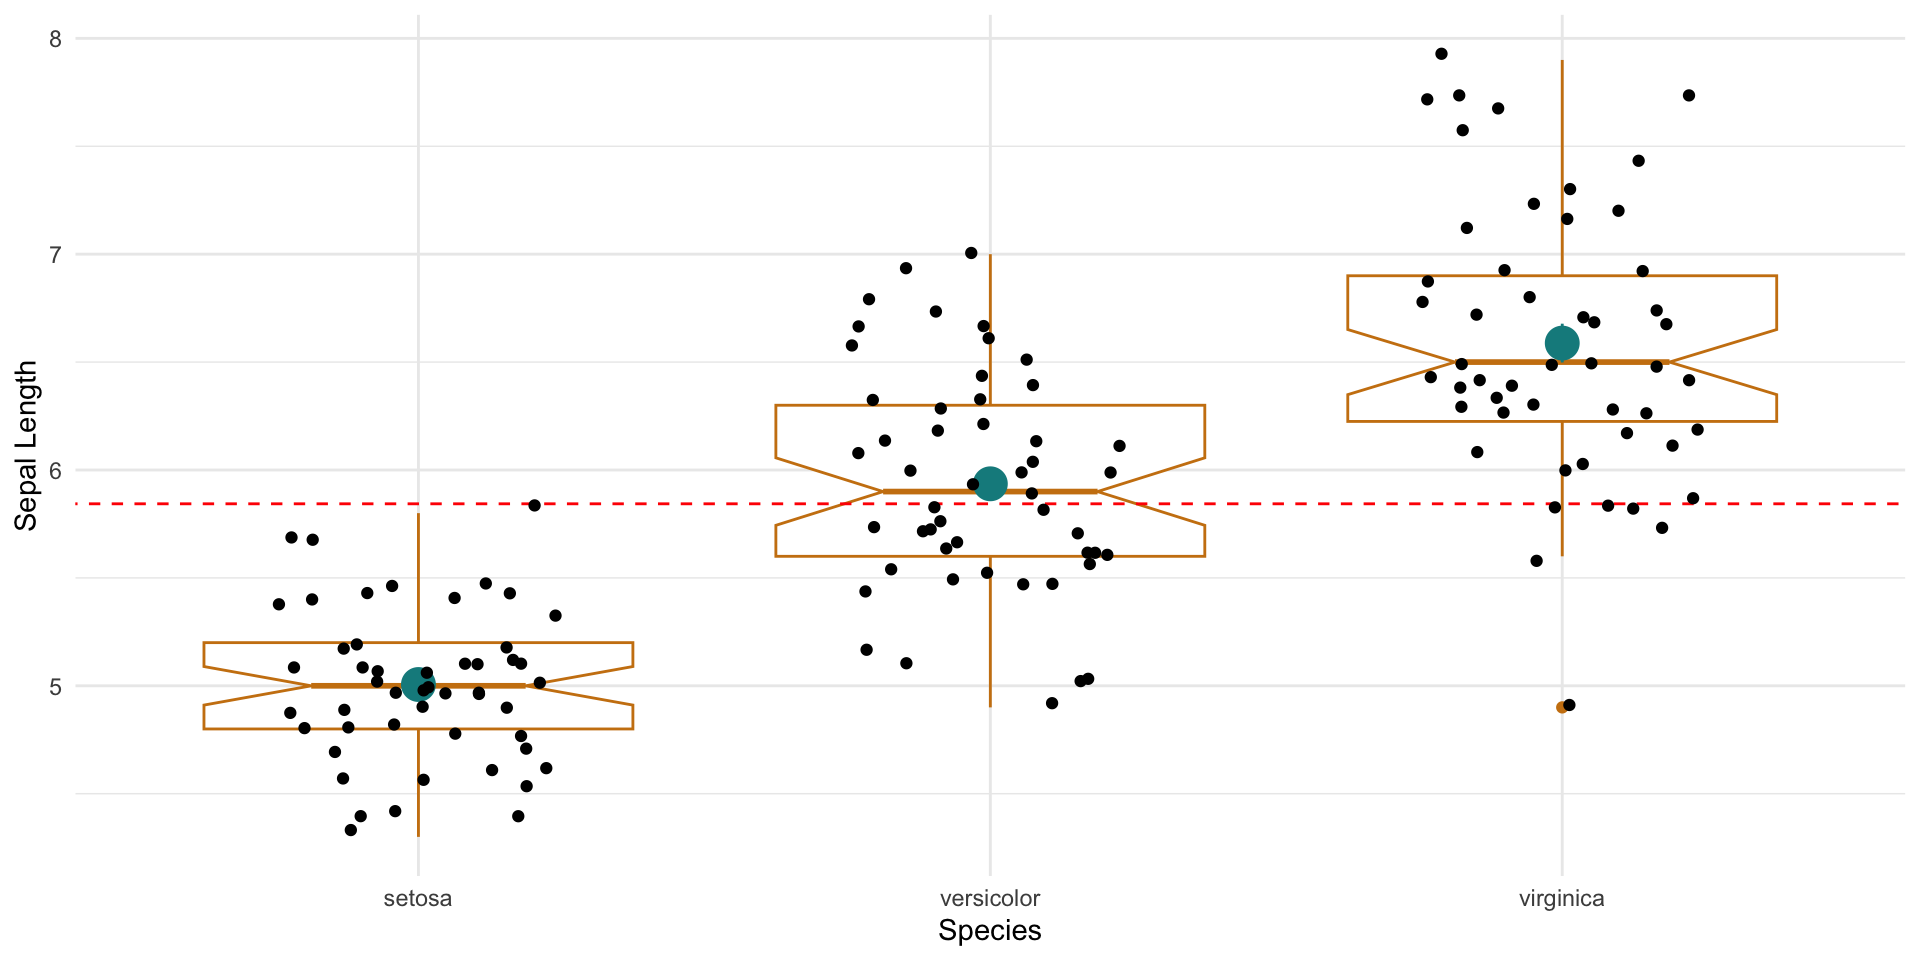
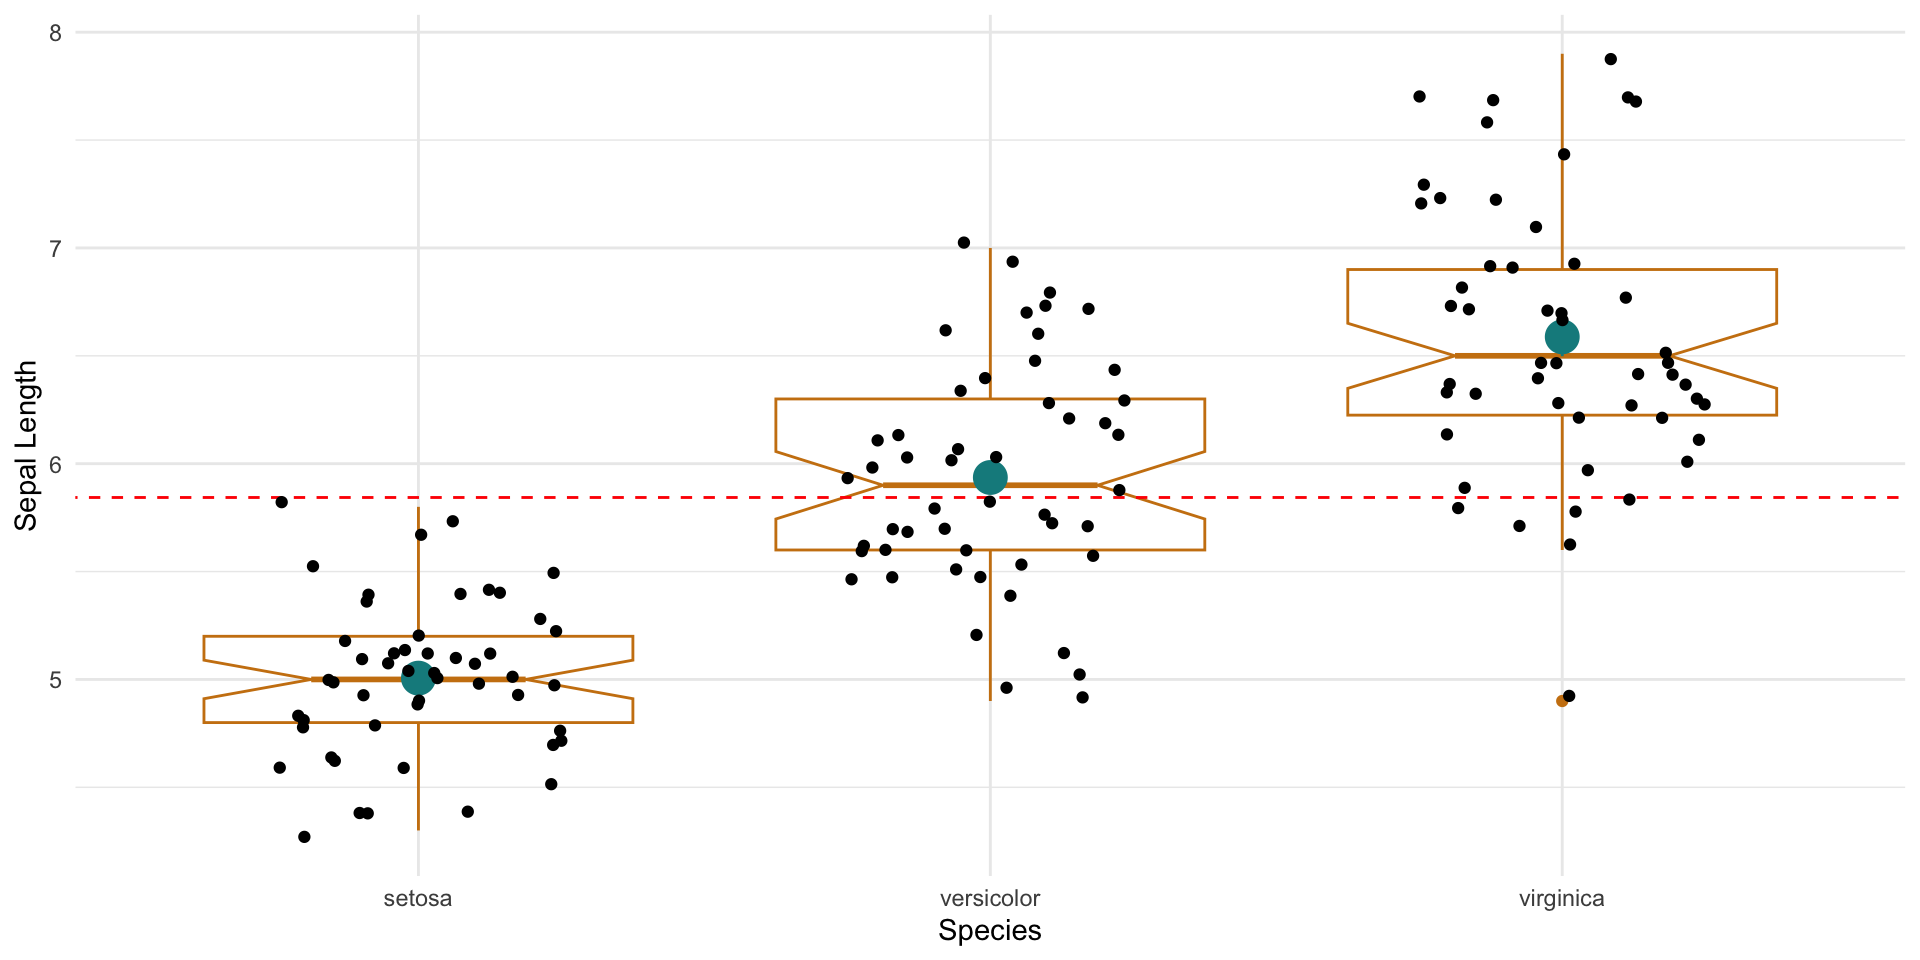
built for latest content

diff --git a/docs/narrative.html b/docs/narrative.html
@@ -130,16 +130,13 @@ window.Quarto = {
 </header>
 
 
-<div class="quarto-figure quarto-figure-center">
-<figure class="figure">
-<p><img src="media/tolga-ulkan-9k36QqhA0cU-unsplash.jpg" class="img-fluid figure-img"></p>
-<figcaption>Photo by <a href="https://unsplash.com/@tolga__?utm_source=unsplash&amp;utm_medium=referral&amp;utm_content=creditCopyText">Tolga Ulkan</a> on <a href="https://unsplash.com/s/photos/different-means?utm_source=unsplash&amp;utm_medium=referral&amp;utm_content=creditCopyText">Unsplash</a></figcaption>
-</figure>
-</div>
+<!-- BEGIN module:header — generated from module.yml; edit that, not this -->
+<p><img src="media/module_image.jpg" class="img-fluid" alt="A milkweed beetle on a plant."></p>
 <blockquote class="blockquote">
-<p>Here we explore methods applicable to testing hypotheses about specific parameters, as equal to a specified value (a <span class="math inline">\(t\)</span>-test), equal between two samples (paired <span class="math inline">\(t\)</span>-tests), and equal among more than two groups (analysis of variance).<br>
-In this and the next section, we will examine how to tell the difference between measures of central tendency. This is applied to a single set of data, pairs of data sets, and a data set with many different groups. As we increase the complexity of these hypotheses, we will move through a series of statistical tests, starting with a one-sample <span class="math inline">\(t\)</span>-test, a paired <span class="math inline">\(t\)</span>-test, and then to the general analysis of variance (ANOVA) approaches. All of these methods evaluate the equality of mean values.</p>
+<p>Here we explore methods applicable to testing hypotheses about specific parameters, as equal to a specified value (a <span class="math inline">\(t\)</span>-test), equal between two samples (paired <span class="math inline">\(t\)</span>-tests), and equal among more than two groups (analysis of variance).</p>
 </blockquote>
+<!-- END module:header -->
+<p>In this and the next section, we will examine how to tell the difference between measures of central tendency. This is applied to a single set of data, pairs of data sets, and a data set with many different groups. As we increase the complexity of these hypotheses, we will move through a series of statistical tests, starting with a one-sample <span class="math inline">\(t\)</span>-test, a paired <span class="math inline">\(t\)</span>-test, and then to the general analysis of variance (ANOVA) approaches. All of these methods evaluate the equality of mean values.</p>
 <section id="one-sample-hypotheses" class="level2">
 <h2 class="anchored" data-anchor-id="one-sample-hypotheses">One Sample Hypotheses</h2>
 <p>At the most basic level, we can take a set of data and test to see if the mean of those values is equated to some particular value, <span class="math inline">\(H_O: \mu = x\)</span> (or <span class="math inline">\(H_O: \mu = 0\)</span> in some cases). The idea here is to determine, by specifying a value for the null hypothesis, what we expect the mean value to be equal to. Going back to our idea of hypothesis testing, the null hypothesis is the thing we are trying to disprove (with some level of statistical confidence) and in doing so we need to define <mark>a test statistic that we have an idea about its behavior</mark>. In this case, we will define Student’s <span class="math inline">\(t\)</span>-test statistic as:</p>
